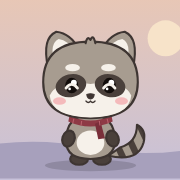
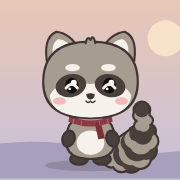
라쿤 꼬리를 복슬복슬하게
겹친 털뭉치로 꼬리 윤곽을 몽글하게 만들고 줄무늬를 고리 모양으로.

Claude-Session: https://claude.ai/code/session_018356KYRaA4nVB9yHaTF6Rt

Changed region(s): [[0.5833, 0.5556, 0.8889, 0.9722]]

diff --git a/index.html b/index.html
@@ -123,7 +123,7 @@ h2{font-family:var(--font-display);font-weight:400;font-size:20px;margin:0;lette
 
 /* raccoon motion */
 #racc .body-g{transform-origin:100px 188px;animation:breathe 3.6s ease-in-out infinite}
-#racc .tail-g{transform-origin:130px 176px;animation:sway 4s ease-in-out infinite}
+#racc .tail-g{transform-origin:122px 176px;animation:sway 4s ease-in-out infinite}
 #racc.hop{animation:hop .55s cubic-bezier(.3,1.6,.5,1)}
 #racc .eyes-happy{display:none}
 #racc.happy .eyes-happy{display:inline}
@@ -167,10 +167,8 @@ h2{font-family:var(--font-display);font-weight:400;font-size:20px;margin:0;lette
       <ellipse cx="160" cy="214" rx="56" ry="7" fill="#000" opacity=".14"/>
       <g transform="translate(60 24)"><g id="racc">
         <g class="tail-g">
-          <clipPath id="tailclip4"><path d="M122 178 Q158 186 165 162 Q169 146 157 140 Q157 162 136 168Z"/></clipPath>
-          <path d="M122 178 Q158 186 165 162 Q169 146 157 140 Q157 162 136 168Z" fill="#A79C90"/>
-          <g clip-path="url(#tailclip4)" fill="#4A403B"><rect x="132" y="150" width="8" height="44" transform="rotate(-25 135 172)"/><rect x="147" y="140" width="8" height="50" transform="rotate(-25 150 165)"/><rect x="161" y="126" width="8" height="50" transform="rotate(-25 164 151)"/></g>
-          <path d="M122 178 Q158 186 165 162 Q169 146 157 140 Q157 162 136 168Z" fill="none" stroke="#3E3532" stroke-width="2.6" stroke-linejoin="round"/>
+          <g fill="#3E3532"><circle cx="120.9" cy="171.1" r="8.2"/><circle cx="120.0" cy="176.0" r="9.8"/><circle cx="125.5" cy="183.7" r="10.2"/><circle cx="126.3" cy="177.0" r="12.5"/><circle cx="132.3" cy="169.4" r="11.7"/><circle cx="132.1" cy="177.4" r="14.3"/><circle cx="138.0" cy="186.5" r="12.9"/><circle cx="137.4" cy="177.4" r="15.9"/><circle cx="140.4" cy="167.0" r="13.8"/><circle cx="142.2" cy="176.8" r="17.1"/><circle cx="150.0" cy="185.6" r="14.5"/><circle cx="146.6" cy="175.6" r="17.9"/><circle cx="145.5" cy="164.3" r="14.9"/><circle cx="150.6" cy="173.9" r="18.4"/><circle cx="160.7" cy="180.5" r="15.0"/><circle cx="154.0" cy="171.7" r="18.6"/><circle cx="149.0" cy="161.7" r="14.8"/><circle cx="157.0" cy="169.0" r="18.4"/><circle cx="168.3" cy="171.4" r="14.4"/><circle cx="159.5" cy="165.7" r="17.9"/><circle cx="152.5" cy="157.9" r="13.7"/><circle cx="161.6" cy="161.9" r="17.0"/><circle cx="171.8" cy="160.1" r="12.8"/><circle cx="163.1" cy="157.6" r="15.7"/><circle cx="156.4" cy="151.4" r="11.6"/><circle cx="164.2" cy="152.8" r="14.2"/><circle cx="171.5" cy="147.8" r="10.1"/><circle cx="164.9" cy="147.4" r="12.3"/><circle cx="160.1" cy="141.5" r="8.2"/><circle cx="165.1" cy="141.4" r="9.8"/><circle cx="169.7" cy="134.6" r="8.2"/><circle cx="164.8" cy="135.0" r="9.8"/><circle cx="159.1" cy="128.7" r="8.2"/><circle cx="164.0" cy="128.0" r="9.8"/><circle cx="163.0" cy="122.0" r="11.6"/></g>
+          <g><circle cx="120.9" cy="171.1" r="5.6" fill="#A79C90"/><circle cx="120.0" cy="176.0" r="7.2" fill="#A79C90"/><circle cx="125.5" cy="183.7" r="7.6" fill="#A79C90"/><circle cx="126.3" cy="177.0" r="9.9" fill="#A79C90"/><circle cx="132.3" cy="169.4" r="9.1" fill="#A79C90"/><circle cx="132.1" cy="177.4" r="11.7" fill="#A79C90"/><circle cx="138.0" cy="186.5" r="10.3" fill="#A79C90"/><circle cx="137.4" cy="177.4" r="13.3" fill="#A79C90"/><circle cx="140.4" cy="167.0" r="11.2" fill="#4A403B"/><circle cx="142.2" cy="176.8" r="14.5" fill="#4A403B"/><circle cx="150.0" cy="185.6" r="11.9" fill="#4A403B"/><circle cx="146.6" cy="175.6" r="15.3" fill="#4A403B"/><circle cx="145.5" cy="164.3" r="12.3" fill="#A79C90"/><circle cx="150.6" cy="173.9" r="15.8" fill="#A79C90"/><circle cx="160.7" cy="180.5" r="12.4" fill="#A79C90"/><circle cx="154.0" cy="171.7" r="16.0" fill="#A79C90"/><circle cx="149.0" cy="161.7" r="12.2" fill="#4A403B"/><circle cx="157.0" cy="169.0" r="15.8" fill="#4A403B"/><circle cx="168.3" cy="171.4" r="11.8" fill="#4A403B"/><circle cx="159.5" cy="165.7" r="15.3" fill="#4A403B"/><circle cx="152.5" cy="157.9" r="11.1" fill="#A79C90"/><circle cx="161.6" cy="161.9" r="14.4" fill="#A79C90"/><circle cx="171.8" cy="160.1" r="10.2" fill="#A79C90"/><circle cx="163.1" cy="157.6" r="13.1" fill="#A79C90"/><circle cx="156.4" cy="151.4" r="9.0" fill="#4A403B"/><circle cx="164.2" cy="152.8" r="11.6" fill="#4A403B"/><circle cx="171.5" cy="147.8" r="7.5" fill="#4A403B"/><circle cx="164.9" cy="147.4" r="9.7" fill="#4A403B"/><circle cx="160.1" cy="141.5" r="5.6" fill="#A79C90"/><circle cx="165.1" cy="141.4" r="7.2" fill="#A79C90"/><circle cx="169.7" cy="134.6" r="5.6" fill="#A79C90"/><circle cx="164.8" cy="135.0" r="7.2" fill="#A79C90"/><circle cx="159.1" cy="128.7" r="5.6" fill="#A79C90"/><circle cx="164.0" cy="128.0" r="7.2" fill="#A79C90"/><circle cx="163.0" cy="122.0" r="9.0" fill="#4A403B"/></g>
         </g>
         <g class="body-g">
           <ellipse cx="86" cy="182" rx="11" ry="7" fill="#4A403B" stroke="#3E3532" stroke-width="2.6" stroke-linejoin="round"/><ellipse cx="114" cy="182" rx="11" ry="7" fill="#4A403B" stroke="#3E3532" stroke-width="2.6" stroke-linejoin="round"/>

diff --git a/src/app.html b/src/app.html
@@ -112,7 +112,7 @@ h2{font-family:var(--font-display);font-weight:400;font-size:20px;margin:0;lette
 
 /* raccoon motion */
 #racc .body-g{transform-origin:100px 188px;animation:breathe 3.6s ease-in-out infinite}
-#racc .tail-g{transform-origin:130px 176px;animation:sway 4s ease-in-out infinite}
+#racc .tail-g{transform-origin:122px 176px;animation:sway 4s ease-in-out infinite}
 #racc.hop{animation:hop .55s cubic-bezier(.3,1.6,.5,1)}
 #racc .eyes-happy{display:none}
 #racc.happy .eyes-happy{display:inline}
@@ -156,10 +156,8 @@ h2{font-family:var(--font-display);font-weight:400;font-size:20px;margin:0;lette
       <ellipse cx="160" cy="214" rx="56" ry="7" fill="#000" opacity=".14"/>
       <g transform="translate(60 24)"><g id="racc">
         <g class="tail-g">
-          <clipPath id="tailclip4"><path d="M122 178 Q158 186 165 162 Q169 146 157 140 Q157 162 136 168Z"/></clipPath>
-          <path d="M122 178 Q158 186 165 162 Q169 146 157 140 Q157 162 136 168Z" fill="#A79C90"/>
-          <g clip-path="url(#tailclip4)" fill="#4A403B"><rect x="132" y="150" width="8" height="44" transform="rotate(-25 135 172)"/><rect x="147" y="140" width="8" height="50" transform="rotate(-25 150 165)"/><rect x="161" y="126" width="8" height="50" transform="rotate(-25 164 151)"/></g>
-          <path d="M122 178 Q158 186 165 162 Q169 146 157 140 Q157 162 136 168Z" fill="none" stroke="#3E3532" stroke-width="2.6" stroke-linejoin="round"/>
+          <g fill="#3E3532"><circle cx="120.9" cy="171.1" r="8.2"/><circle cx="120.0" cy="176.0" r="9.8"/><circle cx="125.5" cy="183.7" r="10.2"/><circle cx="126.3" cy="177.0" r="12.5"/><circle cx="132.3" cy="169.4" r="11.7"/><circle cx="132.1" cy="177.4" r="14.3"/><circle cx="138.0" cy="186.5" r="12.9"/><circle cx="137.4" cy="177.4" r="15.9"/><circle cx="140.4" cy="167.0" r="13.8"/><circle cx="142.2" cy="176.8" r="17.1"/><circle cx="150.0" cy="185.6" r="14.5"/><circle cx="146.6" cy="175.6" r="17.9"/><circle cx="145.5" cy="164.3" r="14.9"/><circle cx="150.6" cy="173.9" r="18.4"/><circle cx="160.7" cy="180.5" r="15.0"/><circle cx="154.0" cy="171.7" r="18.6"/><circle cx="149.0" cy="161.7" r="14.8"/><circle cx="157.0" cy="169.0" r="18.4"/><circle cx="168.3" cy="171.4" r="14.4"/><circle cx="159.5" cy="165.7" r="17.9"/><circle cx="152.5" cy="157.9" r="13.7"/><circle cx="161.6" cy="161.9" r="17.0"/><circle cx="171.8" cy="160.1" r="12.8"/><circle cx="163.1" cy="157.6" r="15.7"/><circle cx="156.4" cy="151.4" r="11.6"/><circle cx="164.2" cy="152.8" r="14.2"/><circle cx="171.5" cy="147.8" r="10.1"/><circle cx="164.9" cy="147.4" r="12.3"/><circle cx="160.1" cy="141.5" r="8.2"/><circle cx="165.1" cy="141.4" r="9.8"/><circle cx="169.7" cy="134.6" r="8.2"/><circle cx="164.8" cy="135.0" r="9.8"/><circle cx="159.1" cy="128.7" r="8.2"/><circle cx="164.0" cy="128.0" r="9.8"/><circle cx="163.0" cy="122.0" r="11.6"/></g>
+          <g><circle cx="120.9" cy="171.1" r="5.6" fill="#A79C90"/><circle cx="120.0" cy="176.0" r="7.2" fill="#A79C90"/><circle cx="125.5" cy="183.7" r="7.6" fill="#A79C90"/><circle cx="126.3" cy="177.0" r="9.9" fill="#A79C90"/><circle cx="132.3" cy="169.4" r="9.1" fill="#A79C90"/><circle cx="132.1" cy="177.4" r="11.7" fill="#A79C90"/><circle cx="138.0" cy="186.5" r="10.3" fill="#A79C90"/><circle cx="137.4" cy="177.4" r="13.3" fill="#A79C90"/><circle cx="140.4" cy="167.0" r="11.2" fill="#4A403B"/><circle cx="142.2" cy="176.8" r="14.5" fill="#4A403B"/><circle cx="150.0" cy="185.6" r="11.9" fill="#4A403B"/><circle cx="146.6" cy="175.6" r="15.3" fill="#4A403B"/><circle cx="145.5" cy="164.3" r="12.3" fill="#A79C90"/><circle cx="150.6" cy="173.9" r="15.8" fill="#A79C90"/><circle cx="160.7" cy="180.5" r="12.4" fill="#A79C90"/><circle cx="154.0" cy="171.7" r="16.0" fill="#A79C90"/><circle cx="149.0" cy="161.7" r="12.2" fill="#4A403B"/><circle cx="157.0" cy="169.0" r="15.8" fill="#4A403B"/><circle cx="168.3" cy="171.4" r="11.8" fill="#4A403B"/><circle cx="159.5" cy="165.7" r="15.3" fill="#4A403B"/><circle cx="152.5" cy="157.9" r="11.1" fill="#A79C90"/><circle cx="161.6" cy="161.9" r="14.4" fill="#A79C90"/><circle cx="171.8" cy="160.1" r="10.2" fill="#A79C90"/><circle cx="163.1" cy="157.6" r="13.1" fill="#A79C90"/><circle cx="156.4" cy="151.4" r="9.0" fill="#4A403B"/><circle cx="164.2" cy="152.8" r="11.6" fill="#4A403B"/><circle cx="171.5" cy="147.8" r="7.5" fill="#4A403B"/><circle cx="164.9" cy="147.4" r="9.7" fill="#4A403B"/><circle cx="160.1" cy="141.5" r="5.6" fill="#A79C90"/><circle cx="165.1" cy="141.4" r="7.2" fill="#A79C90"/><circle cx="169.7" cy="134.6" r="5.6" fill="#A79C90"/><circle cx="164.8" cy="135.0" r="7.2" fill="#A79C90"/><circle cx="159.1" cy="128.7" r="5.6" fill="#A79C90"/><circle cx="164.0" cy="128.0" r="7.2" fill="#A79C90"/><circle cx="163.0" cy="122.0" r="9.0" fill="#4A403B"/></g>
         </g>
         <g class="body-g">
           <ellipse cx="86" cy="182" rx="11" ry="7" fill="#4A403B" stroke="#3E3532" stroke-width="2.6" stroke-linejoin="round"/><ellipse cx="114" cy="182" rx="11" ry="7" fill="#4A403B" stroke="#3E3532" stroke-width="2.6" stroke-linejoin="round"/>
